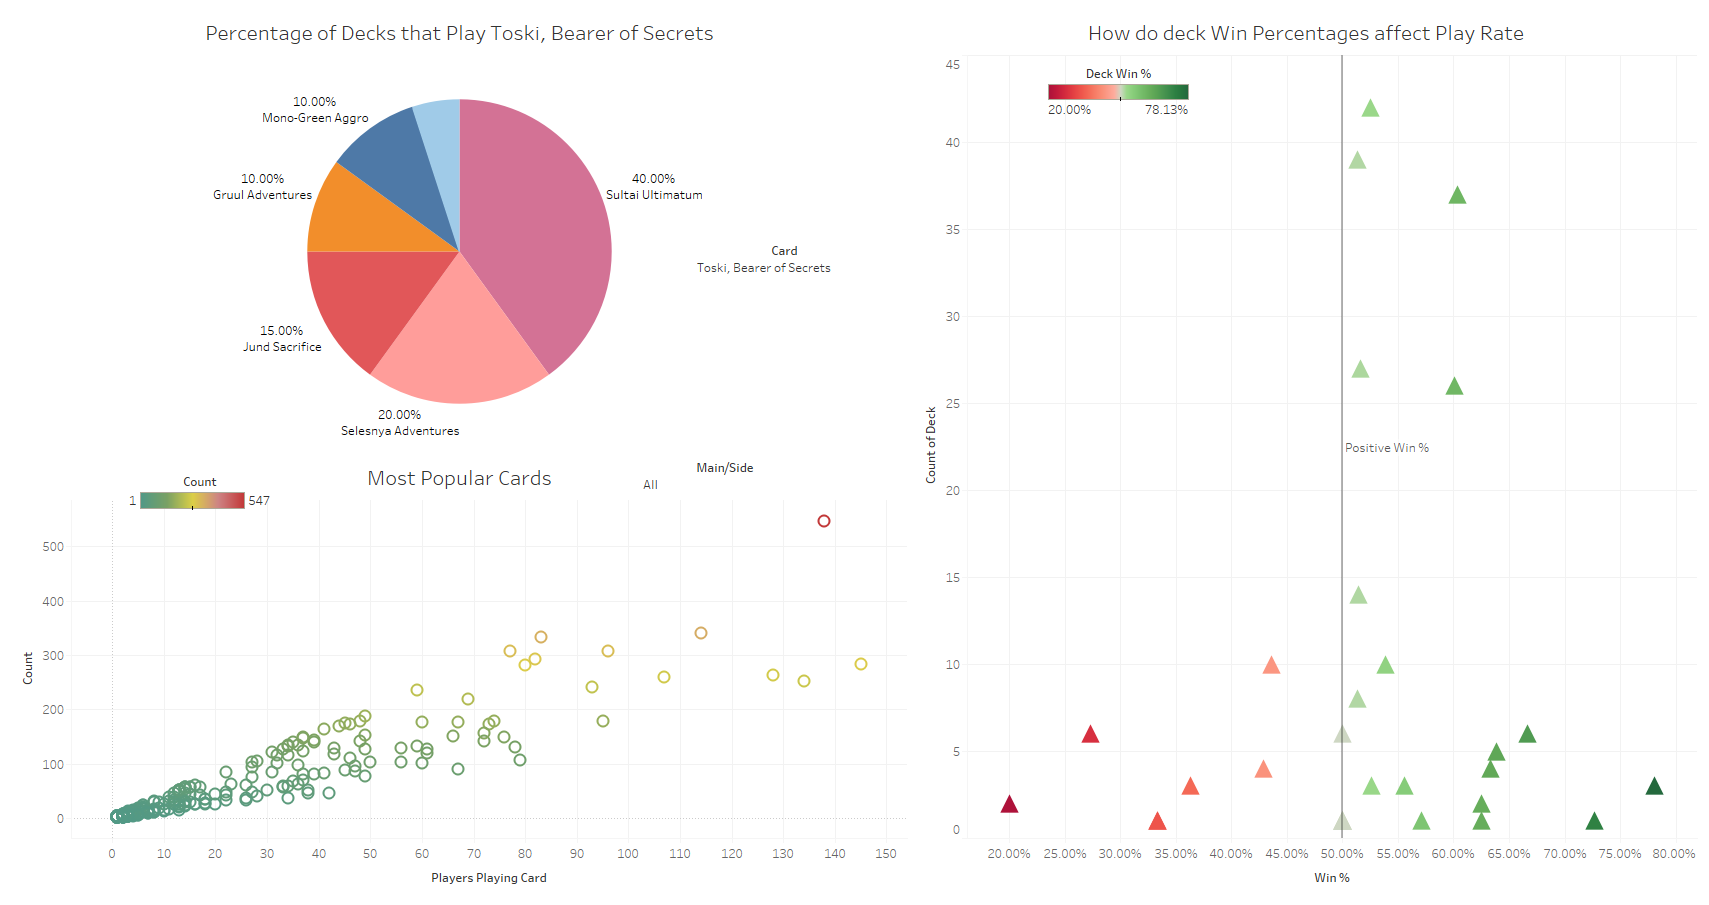
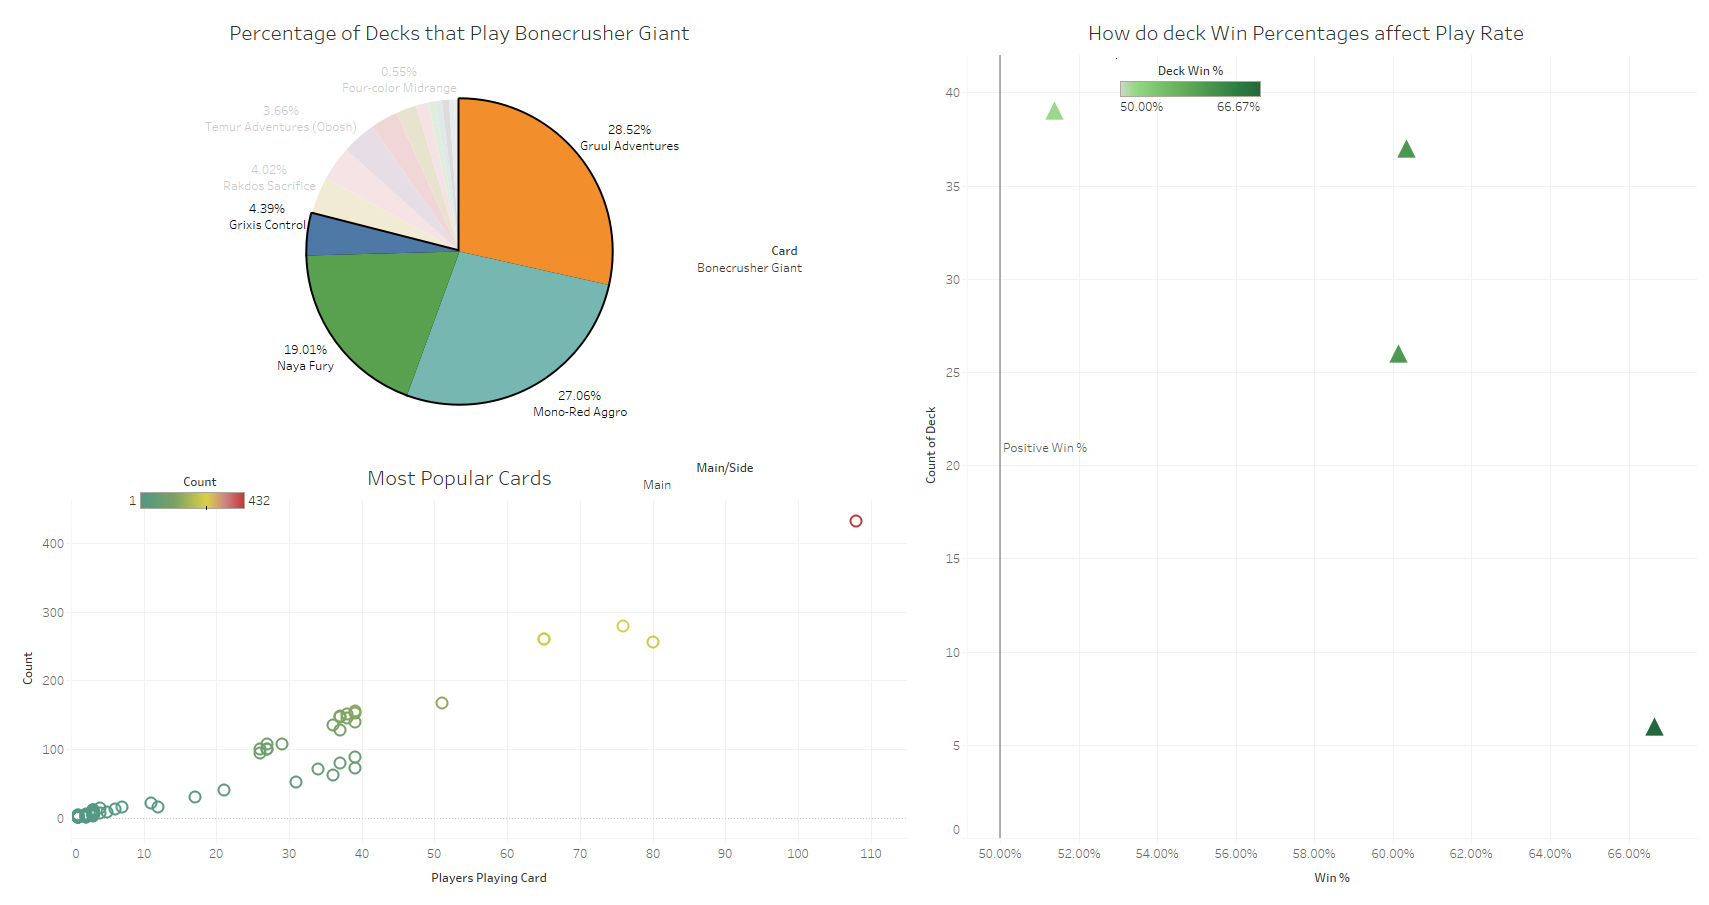
Updated Images, Wrote remaining captions

diff --git a/SCG Kaldheim 5K Visualization.html b/SCG Kaldheim 5K Visualization.html
@@ -134,7 +134,7 @@
                 <ol>
                     <li>Do any Decks noticeably outperform others?</li>
                     <li>Do any Cards noticeably outperform others?</li>
-                    <li>Is there a correlation between Win % and card selection?</li>
+                    <li>Is there a correlation between Win % and Card Selection?</li>
                 </ol>
             </section>
 
@@ -143,62 +143,126 @@
 
                 <div class="entry">
                     <img src="Win Loss Comparisons.png" />
-                    <p class="caption">ENTER IMAGE CAPTION HERE.</p>
+                    <p class="caption">
+                        These first two visualizations are a simple Win Loss and Ratio comparison between the decks. This visualization shows what
+                        decks had the best rates in the tournament as a whole, meaning we are not concidering the number of players playing the deck
+                        or how far in the tournament they got (though details on demand gives us that information). We see here what archetypes stand
+                        out as net winners in the tournament.
+                    </p>
                 </div>
 
                 <div class="entry">
                     <img src="Rank Vs Play Frequency.png" />
-                    <p class="caption">ENTER IMAGE CAPTION HERE.</p>
+                    <p class="caption">
+                        The next visualization shows us the average rank a deck archetype obtained, labled by the number of players playing the
+                        specific deck archetype. We can see the gradual slope as the average rank increases, but the number of players playing the
+                        archetypes is sporadic, telling us no clear deck that stands above all others, all though some are more popular than others.
+                    </p>
                 </div>
 
                 <div class="entry">
                     <img src="Play Rate Vs Win %.png" />
-                    <p class="caption">ENTER IMAGE CAPTION HERE.</p>
+                    <p class="caption">
+                        This visualization dispalys deck archetype popularity and its correponding win percentage. We see that the most popular decks
+                        are the ones with a positive win percentage, but also decks with a lower count (meaning decks that are new brews, solo brews,
+                        or of a niche archetype) are spread around the win percentage axis. This reinforces the fact that there is a good variaty of
+                        archetypes capable of being viable in the current meta. This plot will be used multiple times in the future to see how deck
+                        popularity and win percentage are coupled with card selection.
+                    </p>
                 </div>
 
                 <div class="entry">
                     <img src="Card Popularity BarChart.png" />
-                    <p class="caption">ENTER IMAGE CAPTION HERE.</p>
+                    <p class="caption">
+                        It is with this visualization that we break into a story of cards. Here we can visually compare a cards popularity among
+                        others in this tournament...and we see one such card stand tall above its peers. Bonecrusher Giant has been a subject of
+                        scrutiny for a while now, with critiques that "it does to much" and "has to much power for a single card". This visualization
+                        only shows us that...people believe those ideas. But is it true?
+                    </p>
                 </div>
 
                 <div class="entry">
                     <img src="Card Popularity Plot.png" />
-                    <p class="caption">ENTER IMAGE CAPTION HERE.</p>
+                    <p class="caption">
+                        This visualization seems like a mess but with Tableaus interactive filtering it dispalys alot of information. This plot is
+                        used later to show card popularity by deck archetype. Still though we see that there are a collection of cards that have both
+                        a large play rate and card count. This visualization is more usefull in a dashboard view with multiple visualizations because
+                        it can better show the hard upper bound to a cards playability (a deck can only have 4 of one card). This allows us to see
+                        that when a card is played, how IMPORTANT the player base believes the card is to the decks success. Again
+                        though...Bonecrusher Giant stands above all others.
+                    </p>
                 </div>
 
                 <div class="entry">
                     <img src="Card in Deck % Pie.png" />
-                    <p class="caption">ENTER IMAGE CAPTION HERE.</p>
+                    <p class="caption">
+                        In this visualization we can capture a cards play percentage in each deck. This has the effect of telling us what archetypes
+                        rely on and use the card most frequently. Used later in a dashboard view.
+                    </p>
                 </div>
 
                 <div class="entry">
                     <img src="Card Popularity vs Win Percentage.png" />
-                    <p class="caption">ENTER IMAGE CAPTION HERE.</p>
+                    <p class="caption">
+                        Here we plot a cards win percentage against its popularity, just as we did before with the decks. This is another
+                        visualization that will be used in a dashboard view down the line. But because a card can appear in multiple decks it shows a
+                        better representation of a cards influence in this meta. You can see a similar shape to the deck win percentage vs popularity,
+                        with the right shift off center. This is due to the fact that a player even if they drop out in round 4 or the semi finals,
+                        will have a positive win rate. That is not to say that there should be a more true center, what it means is there is a valid
+                        bias in the direction of a card seeing more wins if its playing well. So what is important is to see how the cards appear
+                        relative to one another. Can you guess who is at the top of this plot!?
+                    </p>
                 </div>
 
                 <div class="entry">
                     <img src="Card % By Deck Type.png" />
-                    <p class="caption">ENTER IMAGE CAPTION HERE.</p>
+                    <p class="caption">
+                        Before we took a card and saw what decks played played it by percentage. In this visualization we take a deck archetype and
+                        break it down to the cards in it by percentage. From this visualization we can see what cards in a deck archetype are
+                        fundamental to what makes the archetype what it is.
+                    </p>
                 </div>
 
                 <div class="entry">
                     <img src="Card Effectiveness and Deck Popularity.png" />
-                    <p class="caption">ENTER IMAGE CAPTION HERE.</p>
+                    <p class="caption">
+                        This dashboard is a collection of visualizations, this has the power to answer harder and more interesting questions than
+                        single visualizations ever could. In this particular image, the linked filters can give us a better understaning of what a
+                        cards impact is in these decks. We select Bonecrusher Giant and select the top 4 decks that play it the most, and we see they
+                        have "very good" win rates. Also we can see other cards that are contributing the most with Bonecrusher Giant to the win
+                        percentage.
+                    </p>
                 </div>
 
                 <div class="entry">
                     <img src="Per Card Per Deck Effectiveness.png" />
-                    <p class="caption">ENTER IMAGE CAPTION HERE.</p>
+                    <p class="caption">
+                        In this dashboard view we select multiple decks and see how their cards stack up in popularity and win percentage. We see
+                        winning decks just play the stong cards, with the most popular one being Bonecrusher Giant.
+                    </p>
                 </div>
 
                 <div class="entry">
                     <img src="Per Card Per Deck Effectiveness(2).png" />
-                    <p class="caption">ENTER IMAGE CAPTION HERE.</p>
+                    <p class="caption">
+                        We in the same dashboard looking to answer the question on everyones mind. How does Bonecrusher Giant effect the decks its
+                        played in. Selecting only Bonecrusher Giant from the card pie reveals that the decks that play it are very...very favored to
+                        win. The plot on the right only tells us information for the single card, and its information we already know. Bonecrusher
+                        Giant is very popular, and a very strong card this season.
+                    </p>
                 </div>
 
                 <div class="entry">
                     <h3>Summary</h3>
-                    <p>WRITE FINAL SUMMARY HERE.</p>
+                    <p>
+                        The visualizations of this tournament are a first look at how results data can be visualized and used to guage the MTG
+                        metagame. Following the steps of EDA we discovered the power of Bonecrusher Giant, visually encoded popularity against win
+                        percetage for decks and their cards, finally we got to see how a cards presense in a deck affected the outcome (though there
+                        still might be unknown variables). Correlation does not equal causation is a common saying among data scientists, I think
+                        Bonecrusher Giant wants to have a word with those data scientists!<br /><br />
+                        Further work would be to ask questions and visualize deck matchups, see how land count affects win rate, and what affect being
+                        on the play/draw has on the games outcome (if that data is available anywhere).
+                    </p>
                 </div>
             </section>
         </div>
